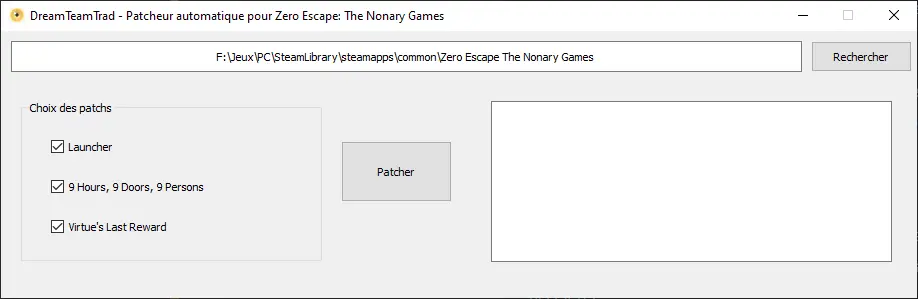
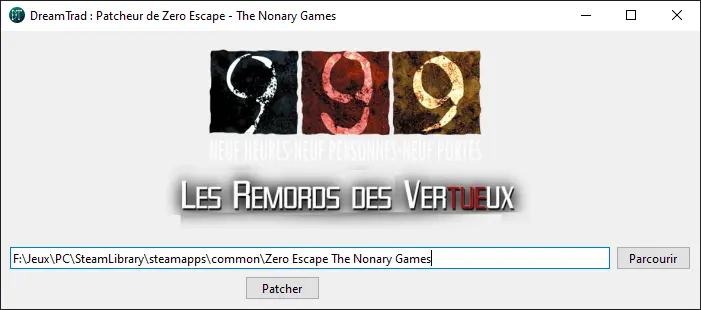
instructions 999 et VLR update

diff --git a/src/data/jeux/vlr/patchfr/installation/steamdeck.md b/src/data/jeux/vlr/patchfr/installation/steamdeck.md
@@ -1,5 +1,7 @@
 # Instructions patch automatique Steamdeck et Linux
 
+C’est un patch pour **The Nonary Games**. Cela veut dire que c’est à la fois un patch pour **9 Hours, 9 Persons, 9 Doors** et pour **Virtue's Last Reward**.
+
 Une fois que vous avez téléchargé le patch, il faudra d’abord l’extraire car c’est un dossier compressé zip.
 
 - Si les fichiers de votre jeu ont été modifiés, allez dans les paramètres du jeu sur Steam, et faite :
@@ -8,13 +10,12 @@ Propriétés → Fichiers installés → Vérifier l’intégrité des fichiers 
 ![Image restoration des fichiers d’origine Steam](/jeux/999/patchfr/installation/steam_restoration_fichiers.webp)
 
 - Allez en mode bureau et télécharger le patch. (Steamdeck)
-- Clic droit sur l’exe, faire ajouter à steam.
-- Retournez en mode jeu, sur le "jeu" "TheNonaryGames_patch_automatique", allez dans les propriétés, et cocher la case pour compatibilité.
+- Clic droit sur l’exe, faire ajouter à Steam.
+- Retournez en mode jeu, sur le *"jeu"* "DreamTrad_patcheur_fr_ZeroEscape_NonaryGames", allez dans les propriétés, et cocher la case pour compatibilité.
 
 ![Image logiciel pour patcher automatiquement](/jeux/999/patchfr/installation/logiciel_patch_auto.webp)
 
-- Si le chemin de votre jeu n’apparait pas, sélectionnez le avec le bouton "Rechercher".
-- Cochez les éléments que vous voulez patcher. Launcher correspond à la fenêtre permettant de choisir quel jeu on lance ainsi que la manette avec laquelle on joue.
+- Si le chemin de votre jeu n’apparait pas, sélectionnez le avec le bouton "Parcourir".
 - Cliquez sur "Patcher". Attendez un peu, et ça sera bon, votre jeu sera patché !
 
 Si vous avez des problèmes, tentez de patcher manuellement.

diff --git a/src/data/jeux/999/patchfr/installation/steamdeck.md b/src/data/jeux/999/patchfr/installation/steamdeck.md
@@ -1,5 +1,7 @@
 # Instructions patch automatique Steamdeck et Linux
 
+C’est un patch pour **The Nonary Games**. Cela veut dire que c’est à la fois un patch pour **9 Hours, 9 Persons, 9 Doors** et pour **Virtue's Last Reward**.
+
 Une fois que vous avez téléchargé le patch, il faudra d’abord l’extraire car c’est un dossier compressé zip.
 
 - Si les fichiers de votre jeu ont été modifiés, allez dans les paramètres du jeu sur Steam, et faite :
@@ -9,12 +11,11 @@ Propriétés → Fichiers installés → Vérifier l’intégrité des fichiers 
 
 - Allez en mode bureau et télécharger le patch. (Steamdeck)
 - Clic droit sur l’exe, faire ajouter à Steam.
-- Retournez en mode jeu, sur le "jeu" "TheNonaryGames_patch_automatique", allez dans les propriétés, et cocher la case pour compatibilité.
+- Retournez en mode jeu, sur le *"jeu"* "DreamTrad_patcheur_fr_ZeroEscape_NonaryGames", allez dans les propriétés, et cocher la case pour compatibilité.
 
 ![Image logiciel pour patcher automatiquement](/jeux/999/patchfr/installation/logiciel_patch_auto.webp)
 
-- Si le chemin de votre jeu n’apparait pas, sélectionnez le avec le bouton "Rechercher".
-- Cochez les éléments que vous voulez patcher. Launcher correspond à la fenêtre permettant de choisir quel jeu on lance ainsi que la manette avec laquelle on joue.
+- Si le chemin de votre jeu n’apparait pas, sélectionnez le avec le bouton "Parcourir".
 - Cliquez sur "Patcher". Attendez un peu, et ça sera bon, votre jeu sera patché !
 
 Si vous avez des problèmes, tentez de patcher manuellement.

diff --git a/src/data/jeux/vlr/patchfr/installation/windows.md b/src/data/jeux/vlr/patchfr/installation/windows.md
@@ -1,17 +1,18 @@
-# Instructions patch automatique windows
+# Instructions patch automatique Windows
+
+C’est un patch pour **The Nonary Games**. Cela veut dire que c’est à la fois un patch pour **9 Hours, 9 Persons, 9 Doors** et pour **Virtue's Last Reward**.
 
 Une fois que vous avez téléchargé le patch, il faudra d’abord l’extraire car c’est un dossier compressé zip.
 
 - Si les fichiers de votre jeu ont été modifiés, allez dans les paramètres du jeu sur Steam, et faite :
 Propriétés → Fichiers installés → Vérifier l’intégrité des fichiers du jeu
 
-![Image restoration des fichiers d’origine Steam](/jeux/999/installation/patchfr/steam_restoration_fichiers.webp)
+![Image restoration des fichiers d’origine Steam](/jeux/999/patchfr/installation/steam_restoration_fichiers.webp)
 
 
-- Lancez TheNonaryGames_patch_automatique.exe.
+- Lancez DreamTrad_patcheur_fr_ZeroEscape_NonaryGames.
 
 ![Image logiciel pour patcher automatiquement](/jeux/999/patchfr/installation/logiciel_patch_auto.webp)
 
-- Si le chemin de votre jeu n’apparait pas, sélectionnez le avec le bouton "Rechercher".
-- Cochez les éléments que vous voulez patcher. Launcher correspond à la fenêtre permettant de choisir quel jeu on lance ainsi que la manette avec laquelle on joue.
+- Si le chemin de votre jeu n’apparait pas, sélectionnez le avec le bouton "Parcourir".
 - Cliquez sur "Patcher". Attendez un peu, et ça sera bon, votre jeu sera patché !

diff --git a/src/data/jeux/999/patchfr/installation/windows.md b/src/data/jeux/999/patchfr/installation/windows.md
@@ -1,5 +1,7 @@
 # Instructions patch automatique Windows
 
+C’est un patch pour **The Nonary Games**. Cela veut dire que c’est à la fois un patch pour **9 Hours, 9 Persons, 9 Doors** et pour **Virtue's Last Reward**.
+
 Une fois que vous avez téléchargé le patch, il faudra d’abord l’extraire car c’est un dossier compressé zip.
 
 - Si les fichiers de votre jeu ont été modifiés, allez dans les paramètres du jeu sur Steam, et faite :
@@ -8,10 +10,9 @@ Propriétés → Fichiers installés → Vérifier l’intégrité des fichiers 
 ![Image restoration des fichiers d’origine Steam](/jeux/999/patchfr/installation/steam_restoration_fichiers.webp)
 
 
-- Lancez TheNonaryGames_patch_automatique.exe.
+- Lancez DreamTrad_patcheur_fr_ZeroEscape_NonaryGames.
 
 ![Image logiciel pour patcher automatiquement](/jeux/999/patchfr/installation/logiciel_patch_auto.webp)
 
-- Si le chemin de votre jeu n’apparait pas, sélectionnez le avec le bouton "Rechercher".
-- Cochez les éléments que vous voulez patcher. Launcher correspond à la fenêtre permettant de choisir quel jeu on lance ainsi que la manette avec laquelle on joue.
+- Si le chemin de votre jeu n’apparait pas, sélectionnez le avec le bouton "Parcourir".
 - Cliquez sur "Patcher". Attendez un peu, et ça sera bon, votre jeu sera patché !
